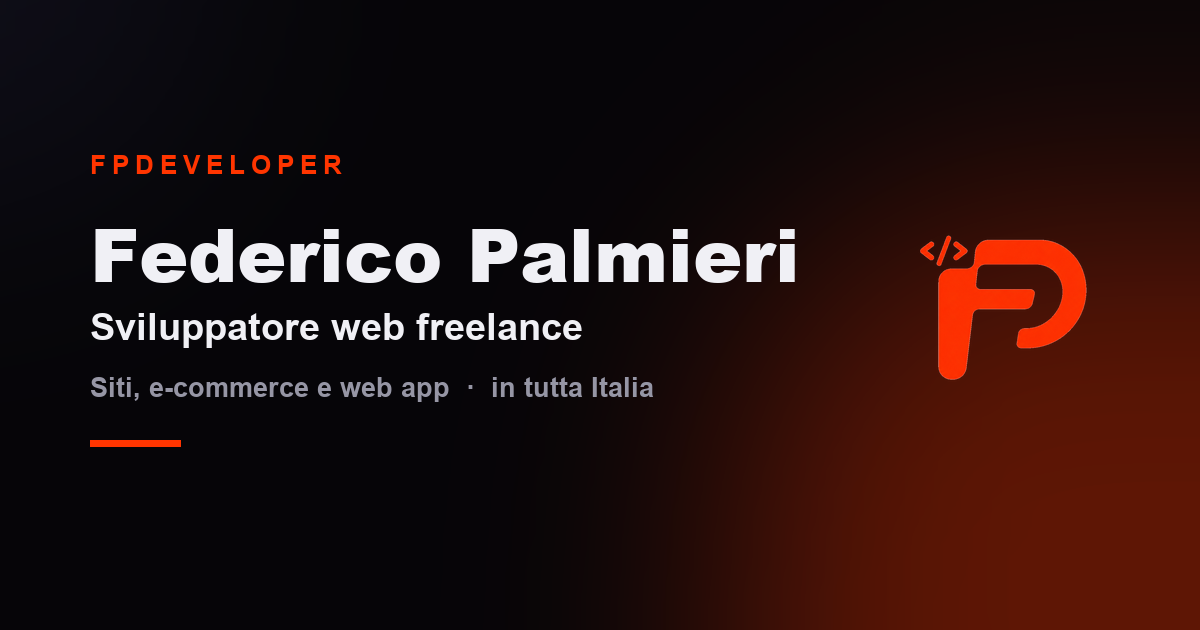
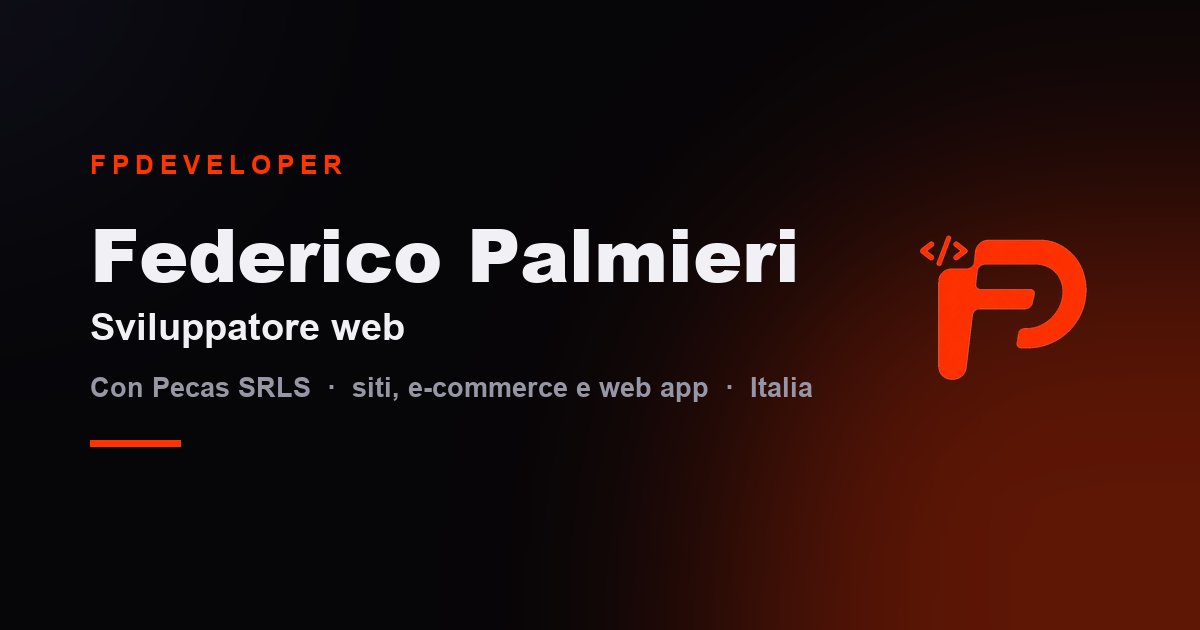
content: reposition as Pecas SRLS collaborator + add iubenda policies
Positioning: dropped the "freelance" self-label across titles, meta,
OG/Twitter, visible copy, footer and schema; replaced with "in
collaborazione con Pecas SRLS". Client-facing "freelance" mentions (the
target audience) are intentionally kept. Person schema now has
worksFor -> Organization "Pecas SRLS". OG image regenerated with the
new tagline.

Legal: added iubenda Privacy Policy + Cookie Policy links to the footer
of all five pages, plus the iubenda loader/widget scripts (external, but
a compliance widget the user explicitly requested).

Changed region(s): [[0.0617, 0.6032, 0.6783, 0.6333], [0.3392, 0.4825, 0.4933, 0.5429]]

diff --git a/about.html b/about.html
@@ -3,22 +3,22 @@
 <head>
   <meta charset="UTF-8">
   <meta name="viewport" content="width=device-width, initial-scale=1.0">
-  <title>Chi Sono — FPdeveloper | Sviluppatore Web Freelance</title>
-  <meta name="description" content="Ex calciatore, oggi sviluppatore web freelance. Quattro anni di studio su HTML, CSS, JavaScript, PHP, WordPress e AI, con la testa di uno sportivo.">
+  <title>Chi Sono — FPdeveloper | Sviluppatore Web</title>
+  <meta name="description" content="Ex calciatore, oggi sviluppatore web in collaborazione con Pecas SRLS. Quattro anni di studio su HTML, CSS, JavaScript, PHP, WordPress e AI, con la testa di uno sportivo.">
   <link rel="canonical" href="https://federicopalmieri.it/about.html">
   <meta property="og:type" content="website">
   <meta property="og:site_name" content="FPdeveloper">
   <meta property="og:locale" content="it_IT">
   <meta property="og:url" content="https://federicopalmieri.it/about.html">
   <meta property="og:title" content="Chi sono — Federico Palmieri">
-  <meta property="og:description" content="Ex calciatore, oggi sviluppatore web freelance. Quattro anni di studio su HTML, CSS, JavaScript, PHP, WordPress e AI, con la testa di uno sportivo.">
+  <meta property="og:description" content="Ex calciatore, oggi sviluppatore web in collaborazione con Pecas SRLS. Quattro anni di studio su HTML, CSS, JavaScript, PHP, WordPress e AI, con la testa di uno sportivo.">
   <meta property="og:image" content="https://federicopalmieri.it/assets/img/og-image.png">
   <meta property="og:image:width" content="1200">
   <meta property="og:image:height" content="630">
-  <meta property="og:image:alt" content="FPdeveloper — Federico Palmieri, sviluppatore web freelance">
+  <meta property="og:image:alt" content="FPdeveloper — Federico Palmieri, sviluppatore web">
   <meta name="twitter:card" content="summary_large_image">
   <meta name="twitter:title" content="Chi sono — Federico Palmieri">
-  <meta name="twitter:description" content="Ex calciatore, oggi sviluppatore web freelance. Quattro anni di studio su tutto lo stack.">
+  <meta name="twitter:description" content="Ex calciatore, oggi sviluppatore web in collaborazione con Pecas SRLS. Quattro anni di studio su tutto lo stack.">
   <meta name="twitter:image" content="https://federicopalmieri.it/assets/img/og-image.png">
   <link rel="icon" href="assets/img/favicon.svg" type="image/svg+xml">
   <link rel="apple-touch-icon" href="assets/img/logo-transparent.png">
@@ -102,7 +102,7 @@
               Da lì ho studiato tutti i giorni: HTML, CSS, JavaScript, PHP, WordPress, database, integrazioni API e AI. Ho collaborato con un'agenzia di comunicazione, e lì ho visto come funziona il web quando dall'altra parte c'è un cliente con un budget da rispettare. Oggi costruisco siti vetrina, e-commerce, landing page e gestionali per attività locali e PMI.
             </p>
             <p style="color:var(--color-text-muted); line-height:1.85; margin-bottom:2.5rem;">
-              Ora lavoro da freelance. Metto nel lavoro la stessa testa che mettevo in campo: se una cosa non mi convince, la rifaccio.
+              Oggi collaboro con Pecas SRLS. Metto nel lavoro la stessa testa che mettevo in campo: se una cosa non mi convince, la rifaccio.
             </p>
             <div style="display:flex; gap:1rem; flex-wrap:wrap;">
               <a href="contact.html"   class="btn btn--primary">Lavoriamo insieme →</a>
@@ -114,7 +114,7 @@
               <div class="about-portrait__frame">
                 <img src="assets/img/foto-profilo.png" alt="Federico Palmieri — FPdeveloper" class="about-portrait__photo">
               </div>
-              <div class="about-portrait__corner about-portrait__corner--tl">Freelance</div>
+              <div class="about-portrait__corner about-portrait__corner--tl">Pecas SRLS</div>
               <div class="about-portrait__corner about-portrait__corner--br">Dev</div>
             </div>
             <div class="about-portrait__badge">Disponibile per nuovi progetti</div>
@@ -189,8 +189,8 @@
               </div>
               <div class="timeline-item">
                 <div class="timeline-item__year">Oggi</div>
-                <h3 class="timeline-item__title">Inizio come freelance</h3>
-                <p class="timeline-item__text">Parto come sviluppatore web freelance. Poche promesse e tanta costanza: mi alleno sul codice come mi allenavo prima.</p>
+                <h3 class="timeline-item__title">Collaboro con Pecas SRLS</h3>
+                <p class="timeline-item__text">Lavoro come sviluppatore web in collaborazione con Pecas SRLS. Poche promesse e tanta costanza: mi alleno sul codice come mi allenavo prima.</p>
               </div>
             </div>
           </div>
@@ -218,7 +218,7 @@
       <div class="footer__grid">
         <div>
           <div class="footer__brand-logo">FP<span>dev</span></div>
-          <p class="footer__brand-text">Sviluppatore web freelance. Costruisco siti, e-commerce e web app per attività in tutta Italia.</p>
+          <p class="footer__brand-text">Sviluppatore web. Collaboro con Pecas SRLS su siti, e-commerce e web app per attività in tutta Italia.</p>
           <div class="footer__socials">
             <a href="https://www.linkedin.com/in/federico-palmieri-0a3079243/" target="_blank" rel="noopener" class="footer__social" aria-label="LinkedIn" title="LinkedIn"><svg class="fp-icon" viewBox="0 0 24 24" aria-hidden="true"><path d="M4.5 9.5v10M4.5 5.5v.01M9 9.5v10M9 14c0-2.5 1.4-4.5 4-4.5s4 2 4 4.5v5.5M17 19.5v-5.5"/></svg></a>
             <a href="https://github.com/PalmioTech" target="_blank" rel="noopener" class="footer__social" aria-label="GitHub" title="GitHub"><svg class="fp-icon" viewBox="0 0 24 24" aria-hidden="true"><path d="M9 19c-4 1.4-4-2-6-2.5M15 21v-3.5a3 3 0 0 0-.9-2.6c2.9-.3 6-1.5 6-6.5a5 5 0 0 0-1.4-3.5 4.7 4.7 0 0 0-.1-3.5s-1.1-.3-3.6 1.4a12.4 12.4 0 0 0-6.5 0C6.6 1 5.5 1.4 5.5 1.4a4.7 4.7 0 0 0-.1 3.5A5 5 0 0 0 4 8.4c0 5 3.1 6.2 6 6.5a3 3 0 0 0-.9 2.6V21"/></svg></a>
@@ -255,11 +255,19 @@
       </div>
       <div class="footer__bottom">
         <p class="footer__copy">© 2025 <span>FPdeveloper</span>. Tutti i diritti riservati.</p>
+        <p class="footer__copy footer__legal">
+          <a href="https://www.iubenda.com/privacy-policy/74830433" class="iubenda-nostyle iubenda-noiframe iubenda-embed footer__link" title="Privacy Policy">Privacy Policy</a>
+          <span aria-hidden="true">·</span>
+          <a href="https://www.iubenda.com/privacy-policy/74830433/cookie-policy" class="iubenda-nostyle iubenda-noiframe iubenda-embed footer__link" title="Cookie Policy">Cookie Policy</a>
+        </p>
         <p class="footer__copy">Realizzato con <span class="fp-heart"><svg class="fp-icon" viewBox="0 0 24 24" aria-hidden="true"><path d="M12 20.5S4 15.5 4 9.8A4 4 0 0 1 12 7a4 4 0 0 1 8 2.8c0 5.7-8 10.7-8 10.7z"/></svg></span> e codice pulito</p>
       </div>
     </div>
   </footer>
 
   <script src="assets/js/main.js"></script>
+  <!-- iubenda — privacy & cookie policy -->
+  <script type="text/javascript" src="https://embeds.iubenda.com/widgets/4e61ecd6-7485-4b30-ae60-03a5121710b0.js"></script>
+  <script type="text/javascript">(function (w,d){var loader=function(){var s=d.createElement("script"),tag=d.getElementsByTagName("script")[0];s.src="https://cdn.iubenda.com/iubenda.js";tag.parentNode.insertBefore(s,tag);};if(w.addEventListener){w.addEventListener("load",loader,false);}else if(w.attachEvent){w.attachEvent("onload",loader);}else{w.onload=loader;}})(window,document);</script>
 </body>
 </html>

diff --git a/index.html b/index.html
@@ -3,23 +3,23 @@
 <head>
   <meta charset="UTF-8">
   <meta name="viewport" content="width=device-width, initial-scale=1.0">
-  <title>FPdeveloper — Sviluppatore Web Freelance | HTML, CSS, PHP, WordPress, AI</title>
-  <meta name="description" content="Sviluppatore web freelance: costruisco siti, e-commerce WordPress/WooCommerce e web app per freelance e piccole imprese in tutta Italia.">
+  <title>FPdeveloper — Sviluppatore Web | HTML, CSS, PHP, WordPress, AI</title>
+  <meta name="description" content="Sviluppatore web in collaborazione con Pecas SRLS: siti, e-commerce WordPress/WooCommerce e web app per freelance e piccole imprese in tutta Italia.">
   <meta name="robots" content="index, follow">
   <link rel="canonical" href="https://federicopalmieri.it/">
   <meta property="og:type" content="website">
   <meta property="og:site_name" content="FPdeveloper">
   <meta property="og:locale" content="it_IT">
   <meta property="og:url" content="https://federicopalmieri.it/">
-  <meta property="og:title" content="FPdeveloper — Sviluppatore Web Freelance">
-  <meta property="og:description" content="Sviluppatore web freelance: costruisco siti, e-commerce WordPress/WooCommerce e web app per freelance e piccole imprese in tutta Italia.">
+  <meta property="og:title" content="FPdeveloper — Sviluppatore Web">
+  <meta property="og:description" content="Sviluppatore web in collaborazione con Pecas SRLS: siti, e-commerce WordPress/WooCommerce e web app per freelance e piccole imprese in tutta Italia.">
   <meta property="og:image" content="https://federicopalmieri.it/assets/img/og-image.png">
   <meta property="og:image:width" content="1200">
   <meta property="og:image:height" content="630">
-  <meta property="og:image:alt" content="FPdeveloper — Federico Palmieri, sviluppatore web freelance">
+  <meta property="og:image:alt" content="FPdeveloper — Federico Palmieri, sviluppatore web">
   <meta name="twitter:card" content="summary_large_image">
-  <meta name="twitter:title" content="FPdeveloper — Sviluppatore Web Freelance">
-  <meta name="twitter:description" content="Sviluppatore web freelance: siti, e-commerce WordPress e web app per attività in tutta Italia.">
+  <meta name="twitter:title" content="FPdeveloper — Sviluppatore Web">
+  <meta name="twitter:description" content="Sviluppatore web in collaborazione con Pecas SRLS: siti, e-commerce WordPress e web app in tutta Italia.">
   <meta name="twitter:image" content="https://federicopalmieri.it/assets/img/og-image.png">
   <link rel="icon" href="assets/img/favicon.svg" type="image/svg+xml">
   <link rel="apple-touch-icon" href="assets/img/logo-transparent.png">
@@ -41,19 +41,24 @@
         "@type": "Person",
         "@id": "https://federicopalmieri.it/#person",
         "name": "Federico Palmieri",
-        "jobTitle": "Sviluppatore web freelance",
+        "jobTitle": "Sviluppatore web",
         "url": "https://federicopalmieri.it/",
         "image": "https://federicopalmieri.it/assets/img/foto-profilo.png",
         "sameAs": [
           "https://www.linkedin.com/in/federico-palmieri-0a3079243/",
           "https://github.com/PalmioTech"
-        ]
+        ],
+        "worksFor": {
+          "@type": "Organization",
+          "name": "Pecas SRLS",
+          "url": "https://pecas.it"
+        }
       },
       {
         "@type": "ProfessionalService",
         "@id": "https://federicopalmieri.it/#service",
         "name": "FPdeveloper",
-        "description": "Sviluppo web freelance: siti vetrina, landing page, e-commerce WordPress/WooCommerce, gestionali e integrazione AI.",
+        "description": "Sviluppo web: siti vetrina, landing page, e-commerce WordPress/WooCommerce, gestionali e integrazione AI, in collaborazione con Pecas SRLS.",
         "url": "https://federicopalmieri.it/",
         "image": "https://federicopalmieri.it/assets/img/logo-transparent.png",
         "provider": { "@id": "https://federicopalmieri.it/#person" },
@@ -134,7 +139,7 @@
 
         <div class="hero-split__right">
           <p class="hero-mammoth__bio" data-typeloop>Sono Federico. Costruisco siti web per freelance, aziende e piccoli brand: veloci, curati e fatti per portarti clienti.</p>
-          <p class="hero-meta"><span aria-hidden="true">◎</span> Freelance — disponibile in tutta Italia</p>
+          <p class="hero-meta"><span aria-hidden="true">◎</span> Collaboro con Pecas SRLS — disponibile in tutta Italia</p>
         </div>
       </div>
     </section>
@@ -383,7 +388,7 @@
         <div>
           <div class="footer__brand-logo">FP<span>dev</span></div>
           <p class="footer__brand-text">
-            Sviluppatore web freelance. Costruisco siti, e-commerce e web app per attività in tutta Italia.
+            Sviluppatore web. Collaboro con Pecas SRLS su siti, e-commerce e web app per attività in tutta Italia.
           </p>
           <div class="footer__socials">
             <a href="https://www.linkedin.com/in/federico-palmieri-0a3079243/" target="_blank" rel="noopener" class="footer__social" aria-label="LinkedIn" title="LinkedIn"><svg class="fp-icon" viewBox="0 0 24 24" aria-hidden="true"><path d="M4.5 9.5v10M4.5 5.5v.01M9 9.5v10M9 14c0-2.5 1.4-4.5 4-4.5s4 2 4 4.5v5.5M17 19.5v-5.5"/></svg></a>
@@ -421,11 +426,19 @@
       </div>
       <div class="footer__bottom">
         <p class="footer__copy">© 2025 <span>FPdeveloper</span>. Tutti i diritti riservati.</p>
+        <p class="footer__copy footer__legal">
+          <a href="https://www.iubenda.com/privacy-policy/74830433" class="iubenda-nostyle iubenda-noiframe iubenda-embed footer__link" title="Privacy Policy">Privacy Policy</a>
+          <span aria-hidden="true">·</span>
+          <a href="https://www.iubenda.com/privacy-policy/74830433/cookie-policy" class="iubenda-nostyle iubenda-noiframe iubenda-embed footer__link" title="Cookie Policy">Cookie Policy</a>
+        </p>
         <p class="footer__copy">Realizzato con <span class="fp-heart"><svg class="fp-icon" viewBox="0 0 24 24" aria-hidden="true"><path d="M12 20.5S4 15.5 4 9.8A4 4 0 0 1 12 7a4 4 0 0 1 8 2.8c0 5.7-8 10.7-8 10.7z"/></svg></span> e codice pulito</p>
       </div>
     </div>
   </footer>
 
   <script src="assets/js/main.js"></script>
+  <!-- iubenda — privacy & cookie policy -->
+  <script type="text/javascript" src="https://embeds.iubenda.com/widgets/4e61ecd6-7485-4b30-ae60-03a5121710b0.js"></script>
+  <script type="text/javascript">(function (w,d){var loader=function(){var s=d.createElement("script"),tag=d.getElementsByTagName("script")[0];s.src="https://cdn.iubenda.com/iubenda.js";tag.parentNode.insertBefore(s,tag);};if(w.addEventListener){w.addEventListener("load",loader,false);}else if(w.attachEvent){w.attachEvent("onload",loader);}else{w.onload=loader;}})(window,document);</script>
 </body>
 </html>

diff --git a/contact.html b/contact.html
@@ -4,18 +4,18 @@
   <meta charset="UTF-8">
   <meta name="viewport" content="width=device-width, initial-scale=1.0">
   <title>Contatti — FPdeveloper | Richiedi un Preventivo</title>
-  <meta name="description" content="Contatta FPdeveloper per il tuo progetto web. Rispondo entro 24 ore con un preventivo dettagliato. Disponibile per collaborazioni freelance, agenzie e aziende.">
+  <meta name="description" content="Contatta FPdeveloper per il tuo progetto web. Rispondo entro 24 ore con un preventivo dettagliato. Lavoro con privati, agenzie e aziende, in collaborazione con Pecas SRLS.">
   <link rel="canonical" href="https://federicopalmieri.it/contact.html">
   <meta property="og:type" content="website">
   <meta property="og:site_name" content="FPdeveloper">
   <meta property="og:locale" content="it_IT">
   <meta property="og:url" content="https://federicopalmieri.it/contact.html">
   <meta property="og:title" content="Contatti — Richiedi un preventivo">
-  <meta property="og:description" content="Contatta FPdeveloper per il tuo progetto web. Rispondo entro 24 ore con un preventivo dettagliato. Disponibile per collaborazioni freelance, agenzie e aziende.">
+  <meta property="og:description" content="Contatta FPdeveloper per il tuo progetto web. Rispondo entro 24 ore con un preventivo dettagliato. Lavoro con privati, agenzie e aziende, in collaborazione con Pecas SRLS.">
   <meta property="og:image" content="https://federicopalmieri.it/assets/img/og-image.png">
   <meta property="og:image:width" content="1200">
   <meta property="og:image:height" content="630">
-  <meta property="og:image:alt" content="FPdeveloper — Federico Palmieri, sviluppatore web freelance">
+  <meta property="og:image:alt" content="FPdeveloper — Federico Palmieri, sviluppatore web">
   <meta name="twitter:card" content="summary_large_image">
   <meta name="twitter:title" content="Contatti — Richiedi un preventivo">
   <meta name="twitter:description" content="Scrivimi il tuo progetto: rispondo entro 24 ore con un preventivo, senza impegno.">
@@ -304,7 +304,7 @@
       <div class="footer__grid">
         <div>
           <div class="footer__brand-logo">FP<span>dev</span></div>
-          <p class="footer__brand-text">Sviluppatore web freelance. Costruisco siti, e-commerce e web app per attività in tutta Italia.</p>
+          <p class="footer__brand-text">Sviluppatore web. Collaboro con Pecas SRLS su siti, e-commerce e web app per attività in tutta Italia.</p>
           <div class="footer__socials">
             <a href="https://www.linkedin.com/in/federico-palmieri-0a3079243/" target="_blank" rel="noopener" class="footer__social" aria-label="LinkedIn" title="LinkedIn"><svg class="fp-icon" viewBox="0 0 24 24" aria-hidden="true"><path d="M4.5 9.5v10M4.5 5.5v.01M9 9.5v10M9 14c0-2.5 1.4-4.5 4-4.5s4 2 4 4.5v5.5M17 19.5v-5.5"/></svg></a>
             <a href="https://github.com/PalmioTech" target="_blank" rel="noopener" class="footer__social" aria-label="GitHub" title="GitHub"><svg class="fp-icon" viewBox="0 0 24 24" aria-hidden="true"><path d="M9 19c-4 1.4-4-2-6-2.5M15 21v-3.5a3 3 0 0 0-.9-2.6c2.9-.3 6-1.5 6-6.5a5 5 0 0 0-1.4-3.5 4.7 4.7 0 0 0-.1-3.5s-1.1-.3-3.6 1.4a12.4 12.4 0 0 0-6.5 0C6.6 1 5.5 1.4 5.5 1.4a4.7 4.7 0 0 0-.1 3.5A5 5 0 0 0 4 8.4c0 5 3.1 6.2 6 6.5a3 3 0 0 0-.9 2.6V21"/></svg></a>
@@ -341,11 +341,19 @@
       </div>
       <div class="footer__bottom">
         <p class="footer__copy">© 2025 <span>FPdeveloper</span>. Tutti i diritti riservati.</p>
+        <p class="footer__copy footer__legal">
+          <a href="https://www.iubenda.com/privacy-policy/74830433" class="iubenda-nostyle iubenda-noiframe iubenda-embed footer__link" title="Privacy Policy">Privacy Policy</a>
+          <span aria-hidden="true">·</span>
+          <a href="https://www.iubenda.com/privacy-policy/74830433/cookie-policy" class="iubenda-nostyle iubenda-noiframe iubenda-embed footer__link" title="Cookie Policy">Cookie Policy</a>
+        </p>
         <p class="footer__copy">Realizzato con <span class="fp-heart"><svg class="fp-icon" viewBox="0 0 24 24" aria-hidden="true"><path d="M12 20.5S4 15.5 4 9.8A4 4 0 0 1 12 7a4 4 0 0 1 8 2.8c0 5.7-8 10.7-8 10.7z"/></svg></span> e codice pulito</p>
       </div>
     </div>
   </footer>
 
   <script src="assets/js/main.js"></script>
+  <!-- iubenda — privacy & cookie policy -->
+  <script type="text/javascript" src="https://embeds.iubenda.com/widgets/4e61ecd6-7485-4b30-ae60-03a5121710b0.js"></script>
+  <script type="text/javascript">(function (w,d){var loader=function(){var s=d.createElement("script"),tag=d.getElementsByTagName("script")[0];s.src="https://cdn.iubenda.com/iubenda.js";tag.parentNode.insertBefore(s,tag);};if(w.addEventListener){w.addEventListener("load",loader,false);}else if(w.attachEvent){w.attachEvent("onload",loader);}else{w.onload=loader;}})(window,document);</script>
 </body>
 </html>

diff --git a/services.html b/services.html
@@ -4,18 +4,18 @@
   <meta charset="UTF-8">
   <meta name="viewport" content="width=device-width, initial-scale=1.0">
   <title>Servizi — FPdeveloper | Sviluppo Web, WordPress, AI</title>
-  <meta name="description" content="Sviluppo web freelance: siti vetrina, landing page, WordPress avanzato, integrazione AI e manutenzione. Soluzioni su misura per la tua attività.">
+  <meta name="description" content="Sviluppo web con Pecas SRLS: siti vetrina, landing page, WordPress avanzato, integrazione AI e manutenzione. Soluzioni su misura per la tua attività.">
   <link rel="canonical" href="https://federicopalmieri.it/services.html">
   <meta property="og:type" content="website">
   <meta property="og:site_name" content="FPdeveloper">
   <meta property="og:locale" content="it_IT">
   <meta property="og:url" content="https://federicopalmieri.it/services.html">
   <meta property="og:title" content="Servizi — Sviluppo Web, WordPress, AI">
-  <meta property="og:description" content="Sviluppo web freelance: siti vetrina, landing page, WordPress avanzato, integrazione AI e manutenzione. Soluzioni su misura per la tua attività.">
+  <meta property="og:description" content="Sviluppo web con Pecas SRLS: siti vetrina, landing page, WordPress avanzato, integrazione AI e manutenzione. Soluzioni su misura per la tua attività.">
   <meta property="og:image" content="https://federicopalmieri.it/assets/img/og-image.png">
   <meta property="og:image:width" content="1200">
   <meta property="og:image:height" content="630">
-  <meta property="og:image:alt" content="FPdeveloper — Federico Palmieri, sviluppatore web freelance">
+  <meta property="og:image:alt" content="FPdeveloper — Federico Palmieri, sviluppatore web">
   <meta name="twitter:card" content="summary_large_image">
   <meta name="twitter:title" content="Servizi — Sviluppo Web, WordPress, AI">
   <meta name="twitter:description" content="Siti vetrina, landing page, WordPress avanzato, integrazione AI e manutenzione. Su misura per la tua attività.">
@@ -444,7 +444,7 @@
       <div class="footer__grid">
         <div>
           <div class="footer__brand-logo">FP<span>dev</span></div>
-          <p class="footer__brand-text">Sviluppatore web freelance. Costruisco siti, e-commerce e web app per attività in tutta Italia.</p>
+          <p class="footer__brand-text">Sviluppatore web. Collaboro con Pecas SRLS su siti, e-commerce e web app per attività in tutta Italia.</p>
           <div class="footer__socials">
             <a href="https://www.linkedin.com/in/federico-palmieri-0a3079243/" target="_blank" rel="noopener" class="footer__social" aria-label="LinkedIn" title="LinkedIn"><svg class="fp-icon" viewBox="0 0 24 24" aria-hidden="true"><path d="M4.5 9.5v10M4.5 5.5v.01M9 9.5v10M9 14c0-2.5 1.4-4.5 4-4.5s4 2 4 4.5v5.5M17 19.5v-5.5"/></svg></a>
             <a href="https://github.com/PalmioTech" target="_blank" rel="noopener" class="footer__social" aria-label="GitHub" title="GitHub"><svg class="fp-icon" viewBox="0 0 24 24" aria-hidden="true"><path d="M9 19c-4 1.4-4-2-6-2.5M15 21v-3.5a3 3 0 0 0-.9-2.6c2.9-.3 6-1.5 6-6.5a5 5 0 0 0-1.4-3.5 4.7 4.7 0 0 0-.1-3.5s-1.1-.3-3.6 1.4a12.4 12.4 0 0 0-6.5 0C6.6 1 5.5 1.4 5.5 1.4a4.7 4.7 0 0 0-.1 3.5A5 5 0 0 0 4 8.4c0 5 3.1 6.2 6 6.5a3 3 0 0 0-.9 2.6V21"/></svg></a>
@@ -481,11 +481,19 @@
       </div>
       <div class="footer__bottom">
         <p class="footer__copy">© 2025 <span>FPdeveloper</span>. Tutti i diritti riservati.</p>
+        <p class="footer__copy footer__legal">
+          <a href="https://www.iubenda.com/privacy-policy/74830433" class="iubenda-nostyle iubenda-noiframe iubenda-embed footer__link" title="Privacy Policy">Privacy Policy</a>
+          <span aria-hidden="true">·</span>
+          <a href="https://www.iubenda.com/privacy-policy/74830433/cookie-policy" class="iubenda-nostyle iubenda-noiframe iubenda-embed footer__link" title="Cookie Policy">Cookie Policy</a>
+        </p>
         <p class="footer__copy">Realizzato con <span class="fp-heart"><svg class="fp-icon" viewBox="0 0 24 24" aria-hidden="true"><path d="M12 20.5S4 15.5 4 9.8A4 4 0 0 1 12 7a4 4 0 0 1 8 2.8c0 5.7-8 10.7-8 10.7z"/></svg></span> e codice pulito</p>
       </div>
     </div>
   </footer>
 
   <script src="assets/js/main.js"></script>
+  <!-- iubenda — privacy & cookie policy -->
+  <script type="text/javascript" src="https://embeds.iubenda.com/widgets/4e61ecd6-7485-4b30-ae60-03a5121710b0.js"></script>
+  <script type="text/javascript">(function (w,d){var loader=function(){var s=d.createElement("script"),tag=d.getElementsByTagName("script")[0];s.src="https://cdn.iubenda.com/iubenda.js";tag.parentNode.insertBefore(s,tag);};if(w.addEventListener){w.addEventListener("load",loader,false);}else if(w.attachEvent){w.attachEvent("onload",loader);}else{w.onload=loader;}})(window,document);</script>
 </body>
 </html>

diff --git a/portfolio.html b/portfolio.html
@@ -15,7 +15,7 @@
   <meta property="og:image" content="https://federicopalmieri.it/assets/img/og-image.png">
   <meta property="og:image:width" content="1200">
   <meta property="og:image:height" content="630">
-  <meta property="og:image:alt" content="FPdeveloper — Federico Palmieri, sviluppatore web freelance">
+  <meta property="og:image:alt" content="FPdeveloper — Federico Palmieri, sviluppatore web">
   <meta name="twitter:card" content="summary_large_image">
   <meta name="twitter:title" content="Portfolio — Siti Web e E-commerce">
   <meta name="twitter:description" content="Progetti web reali: e-commerce WooCommerce, siti vetrina WordPress, food e sport. Tutti online.">
@@ -559,7 +559,7 @@
       <div class="footer__grid">
         <div>
           <div class="footer__brand-logo">FP<span>dev</span></div>
-          <p class="footer__brand-text">Sviluppatore web freelance. Costruisco siti, e-commerce e web app per attività in tutta Italia.</p>
+          <p class="footer__brand-text">Sviluppatore web. Collaboro con Pecas SRLS su siti, e-commerce e web app per attività in tutta Italia.</p>
           <div class="footer__socials">
             <a href="https://www.linkedin.com/in/federico-palmieri-0a3079243/" target="_blank" rel="noopener" class="footer__social" aria-label="LinkedIn" title="LinkedIn"><svg class="fp-icon" viewBox="0 0 24 24" aria-hidden="true"><path d="M4.5 9.5v10M4.5 5.5v.01M9 9.5v10M9 14c0-2.5 1.4-4.5 4-4.5s4 2 4 4.5v5.5M17 19.5v-5.5"/></svg></a>
             <a href="https://github.com/PalmioTech" target="_blank" rel="noopener" class="footer__social" aria-label="GitHub" title="GitHub"><svg class="fp-icon" viewBox="0 0 24 24" aria-hidden="true"><path d="M9 19c-4 1.4-4-2-6-2.5M15 21v-3.5a3 3 0 0 0-.9-2.6c2.9-.3 6-1.5 6-6.5a5 5 0 0 0-1.4-3.5 4.7 4.7 0 0 0-.1-3.5s-1.1-.3-3.6 1.4a12.4 12.4 0 0 0-6.5 0C6.6 1 5.5 1.4 5.5 1.4a4.7 4.7 0 0 0-.1 3.5A5 5 0 0 0 4 8.4c0 5 3.1 6.2 6 6.5a3 3 0 0 0-.9 2.6V21"/></svg></a>
@@ -596,11 +596,19 @@
       </div>
       <div class="footer__bottom">
         <p class="footer__copy">© 2025 <span>FPdeveloper</span>. Tutti i diritti riservati.</p>
+        <p class="footer__copy footer__legal">
+          <a href="https://www.iubenda.com/privacy-policy/74830433" class="iubenda-nostyle iubenda-noiframe iubenda-embed footer__link" title="Privacy Policy">Privacy Policy</a>
+          <span aria-hidden="true">·</span>
+          <a href="https://www.iubenda.com/privacy-policy/74830433/cookie-policy" class="iubenda-nostyle iubenda-noiframe iubenda-embed footer__link" title="Cookie Policy">Cookie Policy</a>
+        </p>
         <p class="footer__copy">Realizzato con <span class="fp-heart"><svg class="fp-icon" viewBox="0 0 24 24" aria-hidden="true"><path d="M12 20.5S4 15.5 4 9.8A4 4 0 0 1 12 7a4 4 0 0 1 8 2.8c0 5.7-8 10.7-8 10.7z"/></svg></span> e codice pulito</p>
       </div>
     </div>
   </footer>
 
   <script src="assets/js/main.js"></script>
+  <!-- iubenda — privacy & cookie policy -->
+  <script type="text/javascript" src="https://embeds.iubenda.com/widgets/4e61ecd6-7485-4b30-ae60-03a5121710b0.js"></script>
+  <script type="text/javascript">(function (w,d){var loader=function(){var s=d.createElement("script"),tag=d.getElementsByTagName("script")[0];s.src="https://cdn.iubenda.com/iubenda.js";tag.parentNode.insertBefore(s,tag);};if(w.addEventListener){w.addEventListener("load",loader,false);}else if(w.attachEvent){w.attachEvent("onload",loader);}else{w.onload=loader;}})(window,document);</script>
 </body>
 </html>

diff --git a/assets/css/style.css b/assets/css/style.css
@@ -2538,6 +2538,14 @@ textarea.fp-field__input:not(:placeholder-shown) ~ .fp-field__label,
   background: var(--color-accent-glow-s);
 }
 
+.footer__legal {
+  display: flex;
+  flex-wrap: wrap;
+  align-items: center;
+  gap: 0.5rem;
+}
+.footer__legal a { cursor: pointer; }
+
 .footer__heading {
   font-size: var(--text-xs);
   font-weight: 700;
